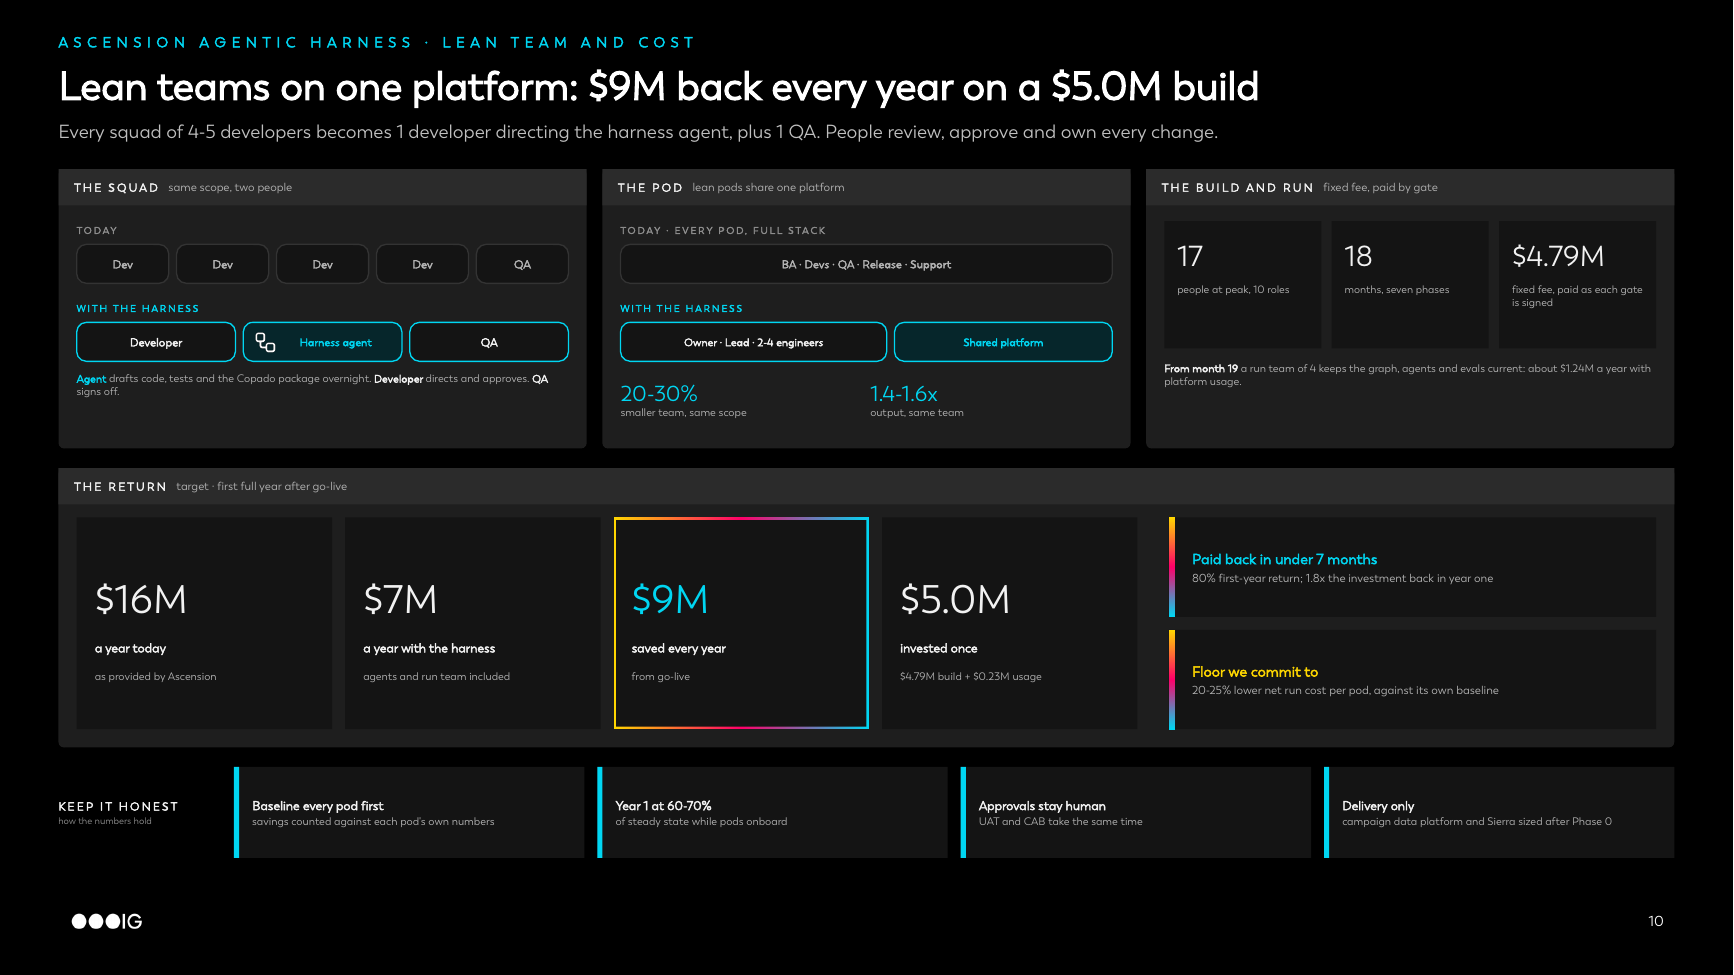
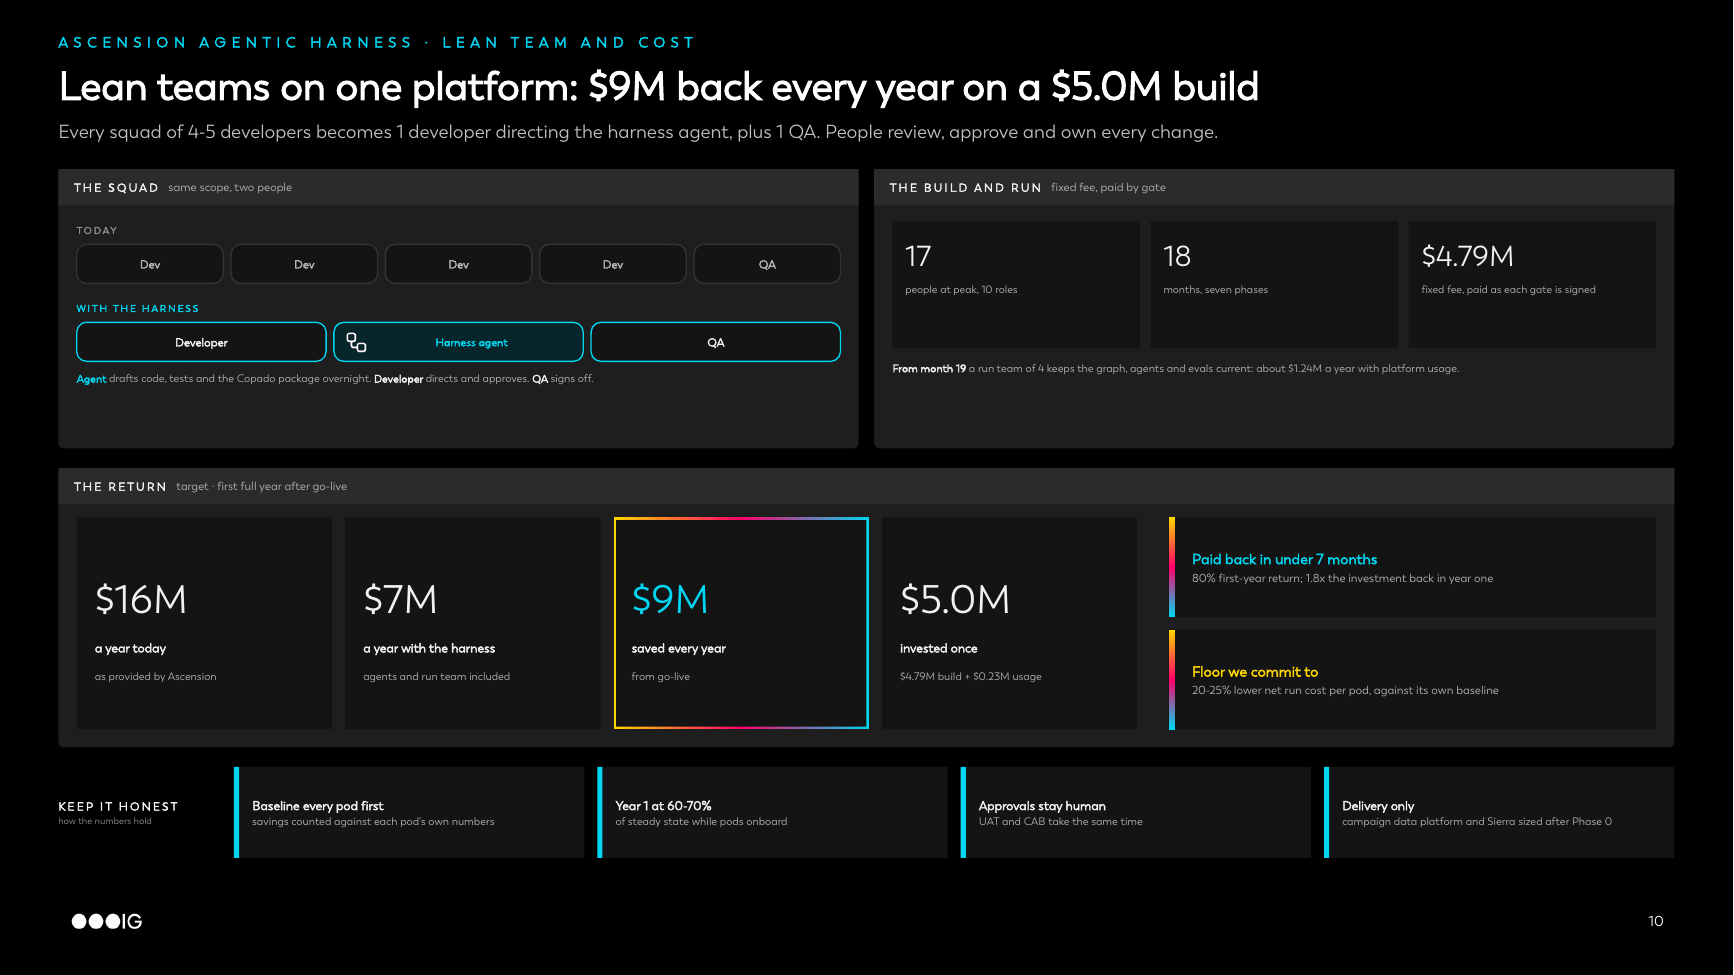
Lean team slide: remove the pod panel
Claude-Session: https://claude.ai/code/session_01Hf94kqMzSofkkrQm7kpNba

diff --git a/poc/data_harness/lean_team.py b/poc/data_harness/lean_team.py
@@ -23,11 +23,10 @@ OUT = os.path.join(HERE, "build", "lean_team.pptx")
 NOTES = """SLIDE: Lean team and cost saving   (about 2-3 minutes)
 
 KEY MESSAGE
-Every squad of 4-5 developers becomes 1 developer directing the harness agent, plus 1 QA. Pods run lean on one shared platform. $16M a year today becomes $7M: $9M back every year on a $5.0M build, paid back in under 7 months.
+Every squad of 4-5 developers becomes 1 developer directing the harness agent, plus 1 QA. $16M a year today becomes $7M: $9M back every year on a $5.0M build, paid back in under 7 months.
 
 WALK IT
 - The squad: 4 developers and a QA today; with the harness, one developer directs the agent, a QA verifies, and the agent drafts code, tests and the Copado package overnight. People review, approve and own every change.
-- The pod: today every pod carries its own full stack. With the harness: owner, lead and 2-4 engineers, on one shared platform run by a small team. 20-30% smaller for the same scope, or 1.4-1.6x the output with the same team.
 - The build: 17 people at peak, 10 roles, 18 months, $4.79M fixed fee paid only when each gate is signed. From month 19 a run team of 4 keeps it running, about $1.24M a year with platform usage.
 - The return (target, first full year after go-live): $16M a year today, $7M with the harness, $9M saved every year, on a $5.0M investment. Paid back in under 7 months; 80% first-year return.
 - Floor we commit to: 20-25% lower net run cost per pod, measured against each pod's baseline.
@@ -72,8 +71,8 @@ def build(prs, layout):
                 "review, approve and own every change.")
     # ---------------------------------------------------------------- row 1: squad, pod, build
     ty, th = 1.3, 2.15
-    pw = (12.43 - 2 * 0.12) / 3
-    xs = [0.45 + k * (pw + 0.12) for k in range(3)]
+    pw = (12.43 - 0.12) / 2
+    xs = [0.45 + k * (pw + 0.12) for k in range(2)]
     # the squad
     x = xs[0]
     panel(cv, x, ty, pw, th, "THE SQUAD", "same scope, two people")
@@ -93,22 +92,8 @@ def build(prs, layout):
                                                      ("directs and approves. ", {}),
                                                      ("QA ", {"bold": True, "color": T1}), ("signs off.", {})]],
             size=6.0, color=T2)
-    # the pod
-    x = xs[1]
-    panel(cv, x, ty, pw, th, "THE POD", "lean pods share one platform")
-    label(cv, x + 0.14, ty + 0.38, 2, "TODAY · EVERY POD, FULL STACK")
-    chip(cv, x + 0.14, ty + 0.58, pw - 0.28, 0.3, "BA · Devs · QA · Release · Support", tc=T2, size=6.2)
-    label(cv, x + 0.14, ty + 0.98, 2.4, "WITH THE HARNESS", CYAN)
-    chip(cv, x + 0.14, ty + 1.18, (pw - 0.34) * 0.55, 0.3, "Owner · Lead · 2-4 engineers", line=CYAN, size=6.0)
-    chip(cv, x + 0.2 + (pw - 0.34) * 0.55, ty + 1.18, (pw - 0.34) * 0.45, 0.3, "Shared platform", line=CYAN,
-         fill="06262B", tc=CYAN, size=6.0)
-    half = (pw - 0.34) / 2
-    for k, (b, d) in enumerate([("20-30%", "smaller team, same scope"), ("1.4-1.6x", "output, same team")]):
-        xx = x + 0.14 + k * (half + 0.06)
-        cv.text(xx, ty + 1.56, half, 0.42, [[(b, {"size": 12, "color": CYAN})], [(d, {"color": T2})]], size=6.0,
-                anchor=MSO_ANCHOR.MIDDLE)
     # the build
-    x = xs[2]
+    x = xs[1]
     panel(cv, x, ty, pw, th, "THE BUILD AND RUN", "fixed fee, paid by gate")
     q = (pw - 0.28 - 2 * 0.08) / 3
     for k, (b, d) in enumerate([("17", "people at peak, 10 roles"), ("18", "months, seven phases"),
